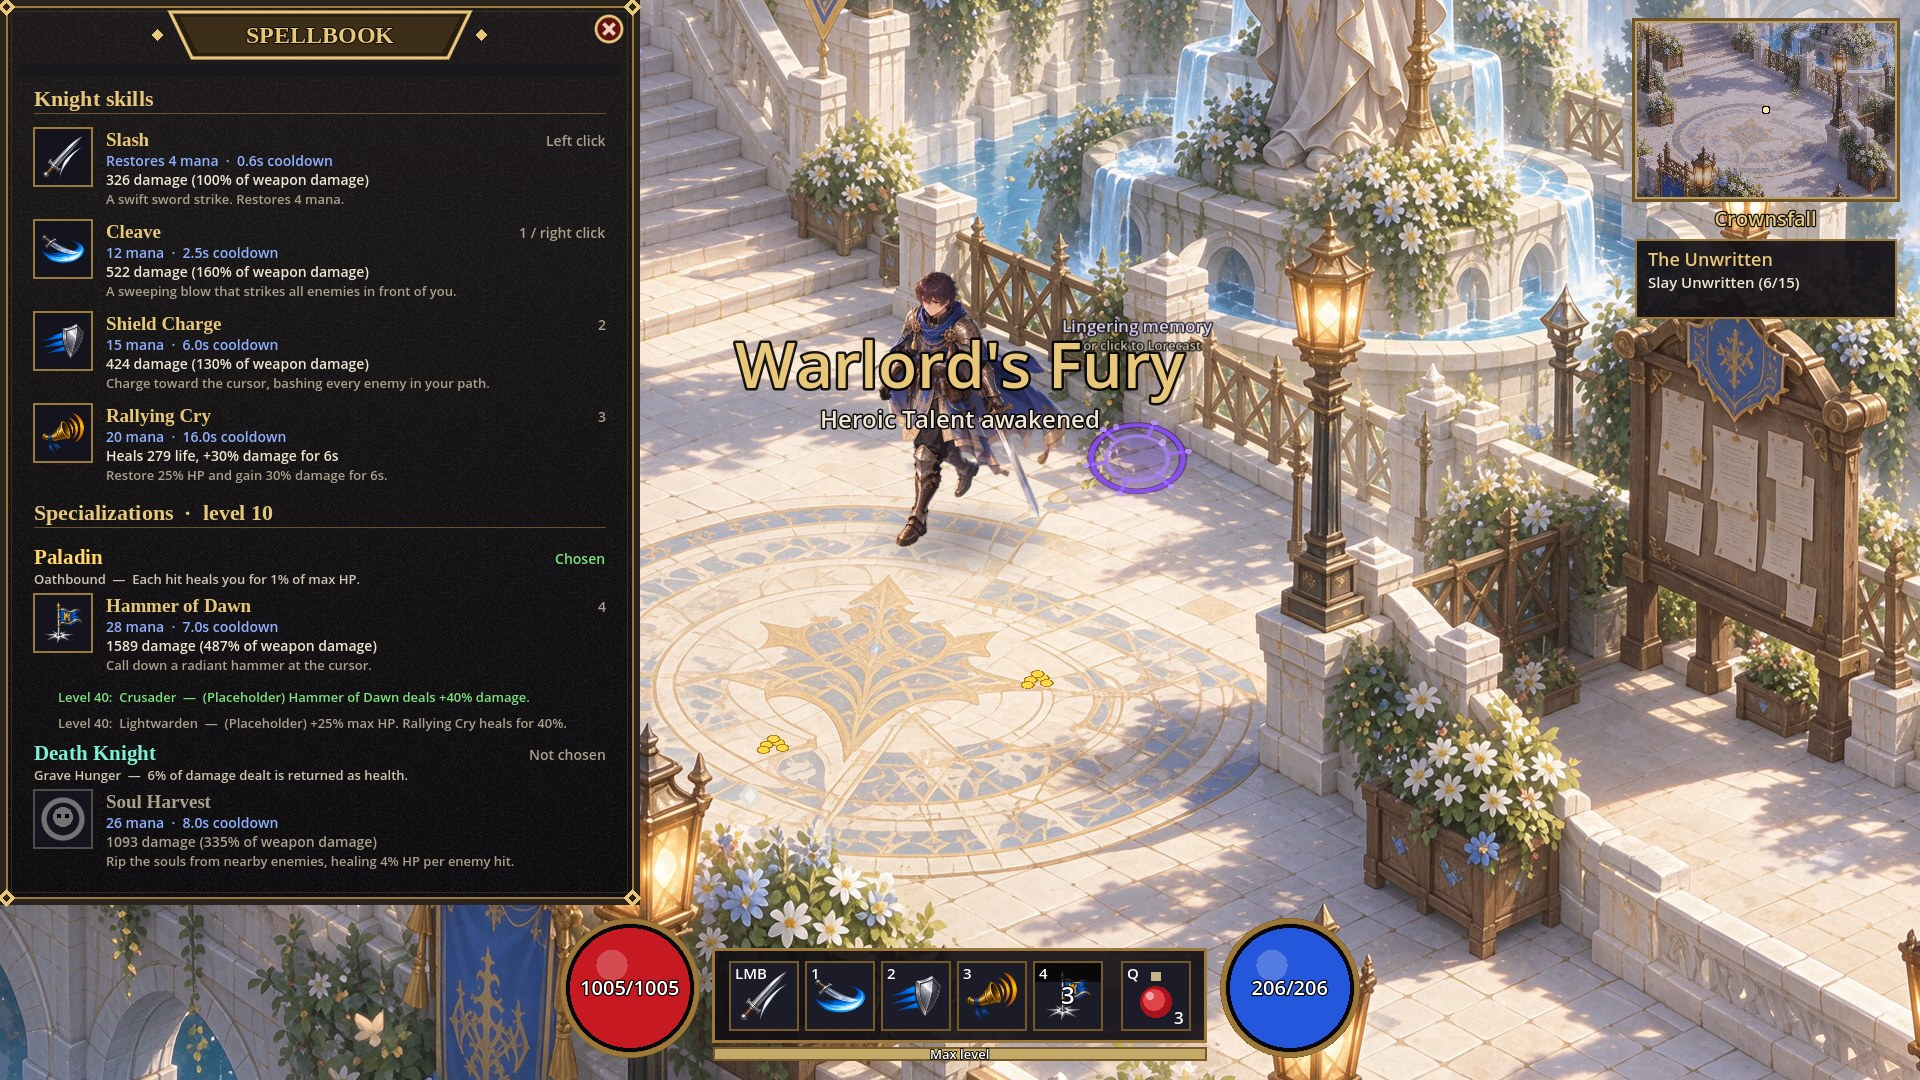
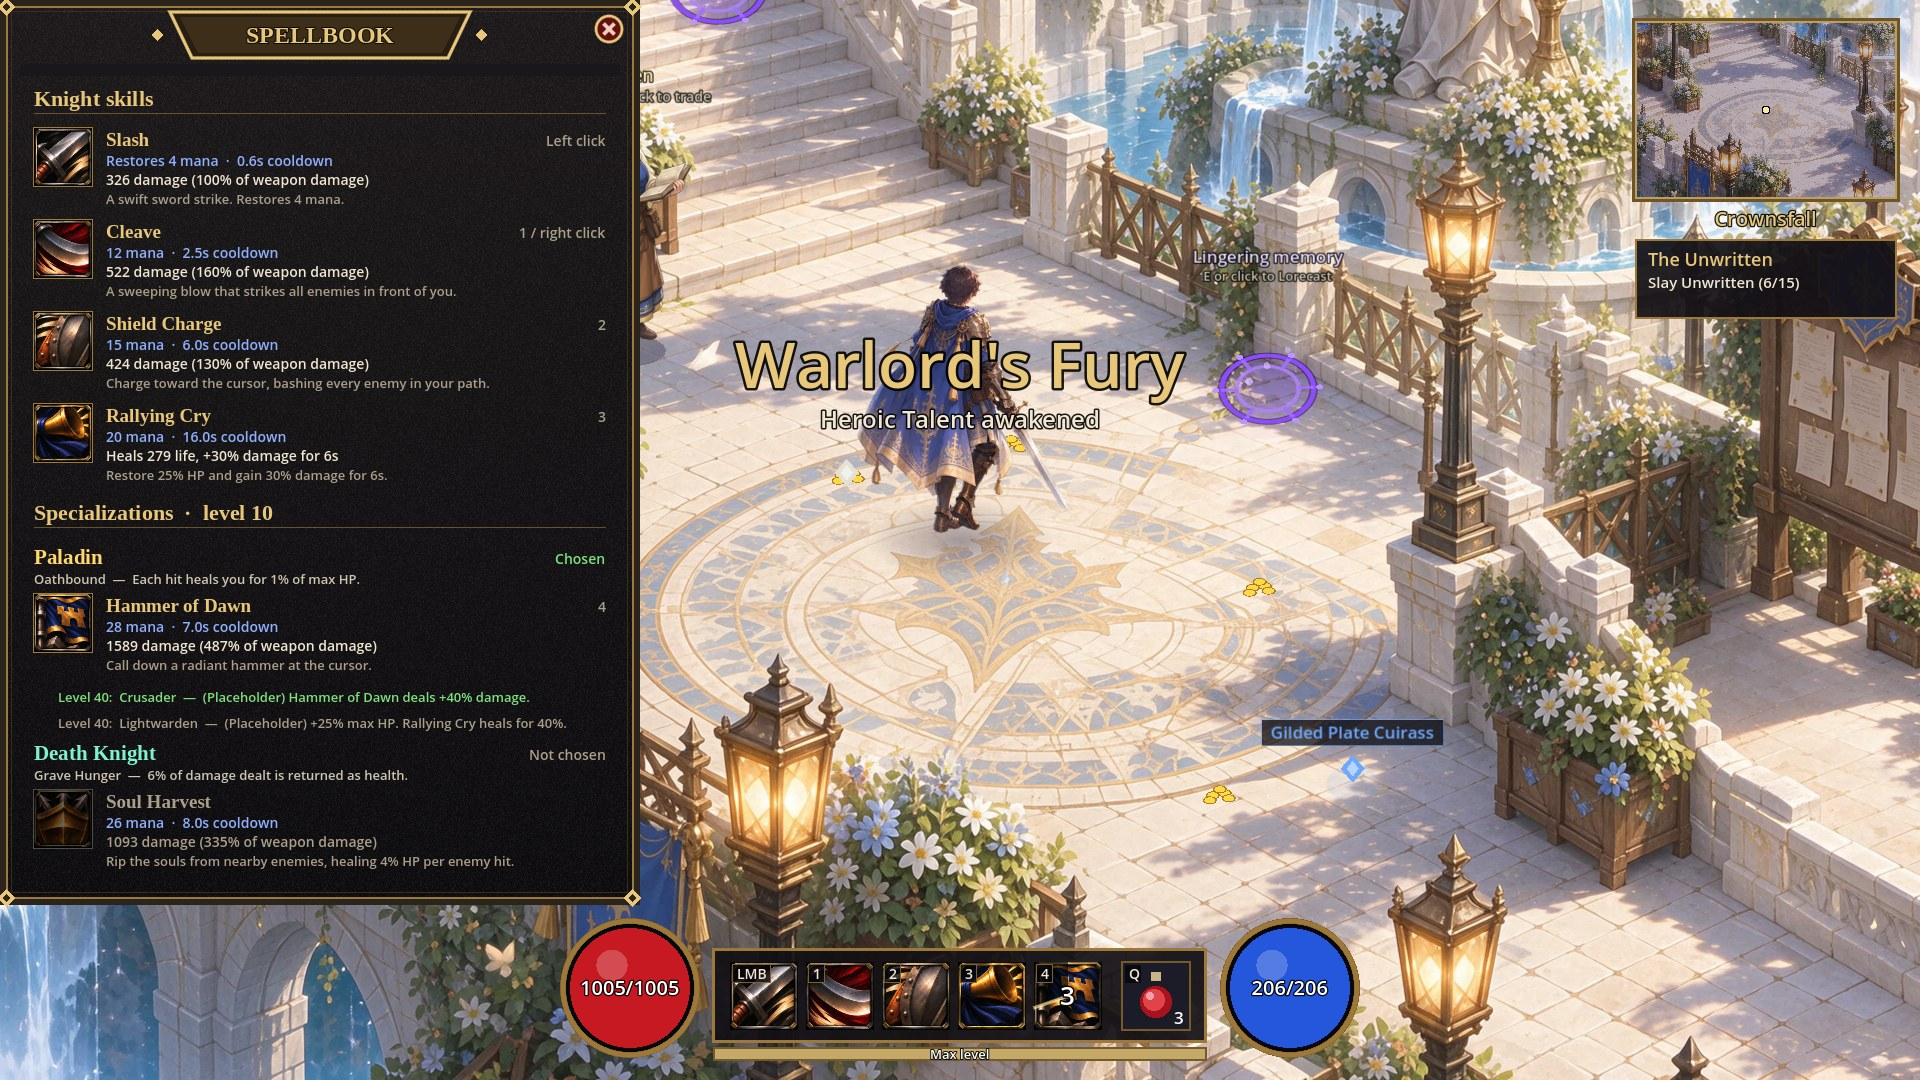
Use full-square Higgsfield skill tiles on the action bar
The seven Knight skills now use the approved framed tiles from
art/skill_tiles (merged from main). Tiles fill the whole slot like Diablo 4
and Path of Exile; cooldowns sweep clockwise with a gold edge, key labels
sit on small dark plates, and the slot border only appears as the blue
out-of-mana warning. Same art in the spellbook. 142 of 142 checks pass.

Claude-Session: https://claude.ai/code/session_01HXUneWBipxvB69FSMXEcEC

diff --git a/crownfall/HANDOFF.md b/crownfall/HANDOFF.md
@@ -200,7 +200,7 @@ F11 fullscreen, F3 walkable outline, Esc save and quit.
 | `assets/knight/attack_<se,ne>.png` | Sword swing strips, 15 frames of 512x512 (the 384 frame sits centred inside) |
 | `assets/enemies/<slime,revenant,brute>.png` | Enemy sprites: Hollowling, Veilbound Revenant, Thornhide Brute |
 | `assets/items/painted/<art id>.png` | Painted item portraits from `art/item_taxonomy` (Higgsfield). Each item stores its `base` ("Chainmail", "Kite Shield"...) and `ITEM_ART` in `game_data.gd` maps bases to art: plate, mail, leather and cloth armour, three shields, sword/axe/mace. Old saves infer the base from the name |
-| `assets/skills/<skill id>.png` | Painted skill icons from `art/expansion02` (slash, cleave, charge, rally, hammer, breath). Soul Harvest keeps its drawn icon: the library's harvest art is a shield and doesn't read as the skill |
+| `assets/skills/<skill id>.png` | Full-square framed skill tiles (Diablo 4 / Path of Exile style) from `art/skill_tiles` (Higgsfield GPT Image 2.6), 128 px, for all seven Knight skills. They fill the whole action-bar slot; the HUD draws a clockwise cooldown sweep and key plates over them (`icons.gd`) |
 | `assets/items/<slot>.png` | Fallback item icons (weapon, offhand, helm, armor, gloves, belt, boots, ring, amulet), sized to each footprint. Made by `tools/make_item_icons.py`; replace any with a painted portrait of the same aspect and the game uses it |
 | `tools/make_item_icons.py` | Paints the item icons (gradients, outlines, highlights) in the knight's palette |
 | `assets/enemies/hexcaller.png` | Placeholder Gravecaller: the Revenant recoloured spectral green. Replace with real art when available |
